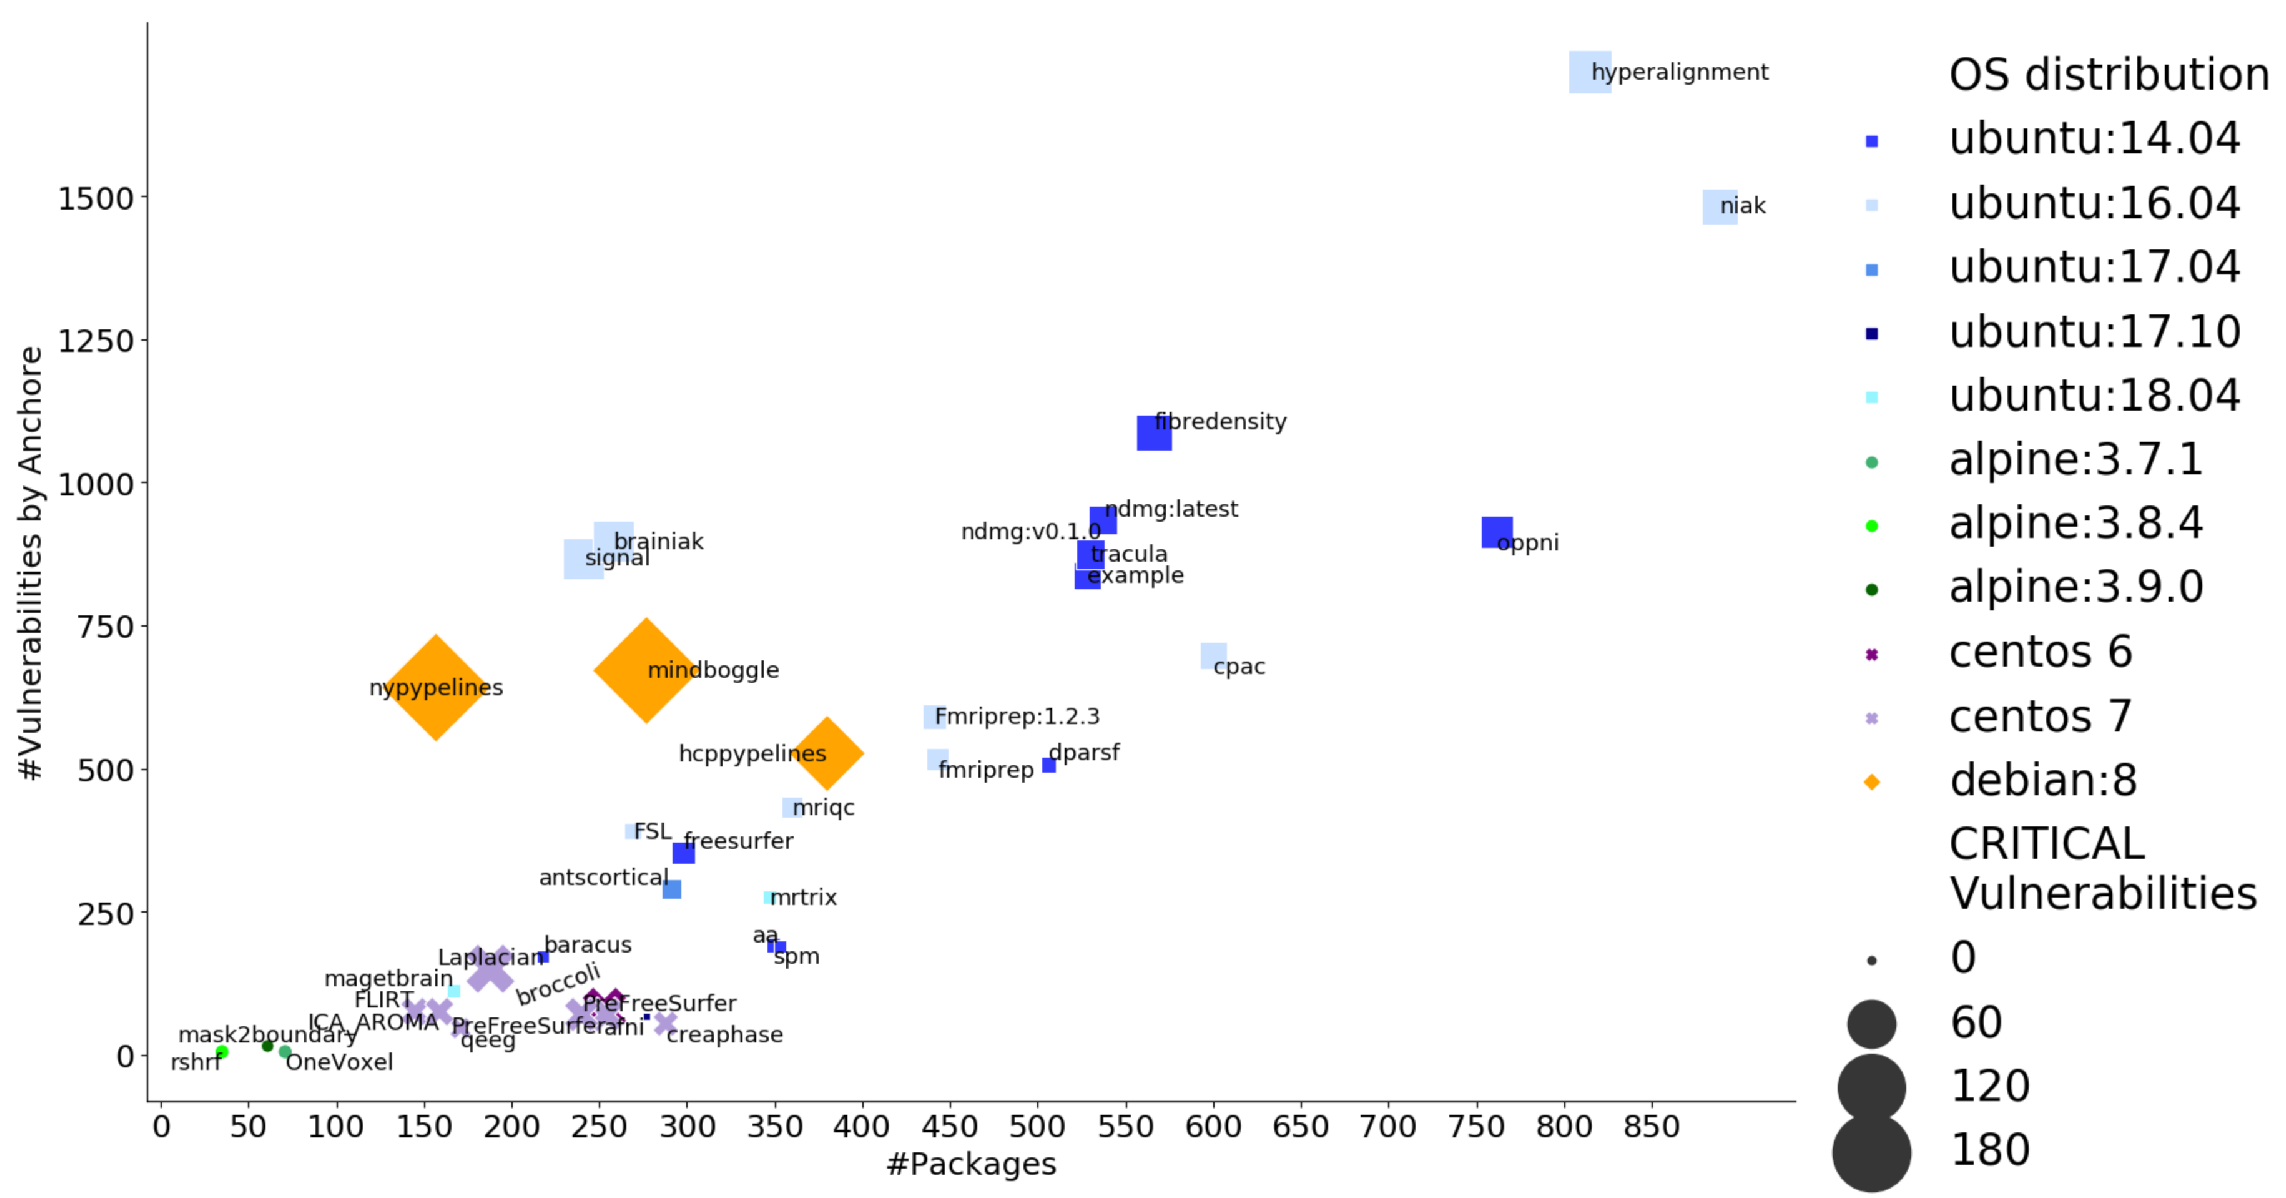
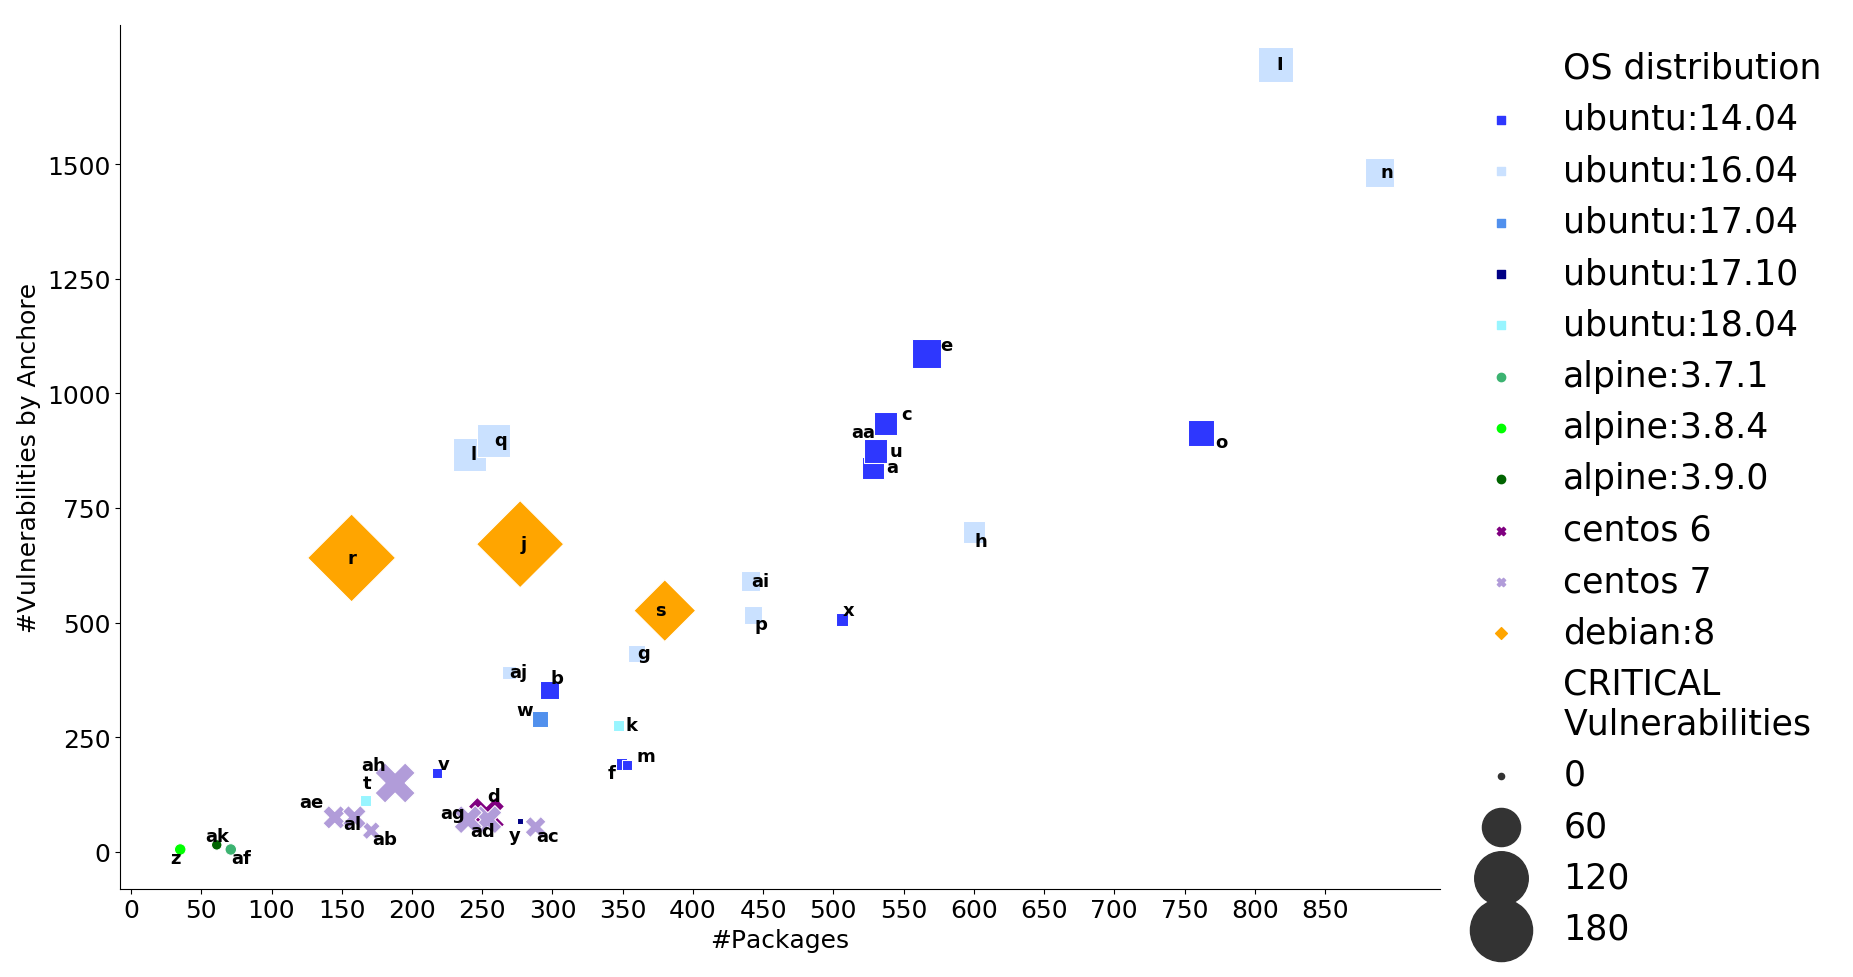
modify seaborn figure

diff --git a/Scripts/script.py b/Scripts/script.py
@@ -9,37 +9,28 @@ import pandas as pd
 d = pd.read_csv(r"../train.csv")
 d.head()
 df=pd.DataFrame(d)
-#p1=sns.regplot(data=df, x="OS_Packages", y="Vulnerabilities",fit_reg=False,marker="o", color="skyblue", scatter_kws={'s':800})
-#sns.palplot(
-#colors=sns.color_palette("Blues")
 colors = {'ubuntu:14.04' : '#2E37FE', 'ubuntu:16.04' : '#CAE1FF', 'ubuntu:17.04':'#5190ED','ubuntu:17.10':'#000085','ubuntu:18.04' : '#98F5FF','centos 6':'#800080','centos 7':'#b19cd9',
         'alpine:3.7.1':'#3CB371','alpine:3.8.4':'#00ff00','alpine:3.9.0':'#006400','debian:8':'#ffa500'}
 markers = {"ubuntu:14.04": "s", "ubuntu:16.04": "s",'ubuntu:17.04':'s','ubuntu:17.10':'s','ubuntu:18.04' : 's','centos 6':'X','centos 7':'X',
         "alpine:3.7.1":'o','alpine:3.8.4':"o","alpine:3.9.0":"o","debian:8":"D"}
-with sns.plotting_context(rc={"legend.fontsize":25,"font.size":18,"axes.titlesize":20}):
- # plt.ylim(0,1500)
+with sns.plotting_context(rc={"legend.fontsize":25,"font.size":18,"axes.titlesize":20,"font.weight":'heavy'}):
   p1=sns.relplot(x="Packages",y="Vulnerabilities",hue="OS distribution",size="CRITICAL Vulnerabilities",sizes=(20,2000),data = df,palette=colors,markers=markers,style="OS distribution",height=10, aspect=2)
-#p1.set(xlim(0,1500))
-#p1.set(xlim=0,1500)
-#p1.set(xlim=(0,1500))
-  #p1.set(xticks(range(1,916)))
 p1.set(xlabel='#Packages', ylabel='#Vulnerabilities by Anchore')
 p1.set(xticks=[i for i in range(0, max(df['Packages']) + 10, 50)],
        yticks=[i for i in range(0, max(df['Vulnerabilities']) + 20, 250)])
 ax = p1.axes[0,0]
 leg = p1._legend
-leg.set_bbox_to_anchor([1, 0])  # coordinates of lower left of bounding box
-leg._loc = 4  # if required you can set the loc
+leg.set_bbox_to_anchor([1, 0])
+leg._loc = 4
 leg.texts[12].set_text("CRITICAL \nVulnerabilities")
 for idx,row in df.iterrows():
     x = row[3]
     y = row[2]
-    text = row[5]
+    text = row[6]
     alignment=row[8]
     v=row[9]
     rot=row[10]
-    #ax.set_xlim([0, 900])
-    ax.text(x+.05,y,text,fontsize=13, horizontalalignment=alignment,verticalalignment=v,rotation=rot)
-#plt.ylim(0,1500)
-
+    hoz=row[11]
+    ver=row[12]
+    ax.text(x+hoz,y+ver,text,fontsize=13, horizontalalignment=alignment,verticalalignment=v,rotation=rot,weight='bold')
 plt.show()
